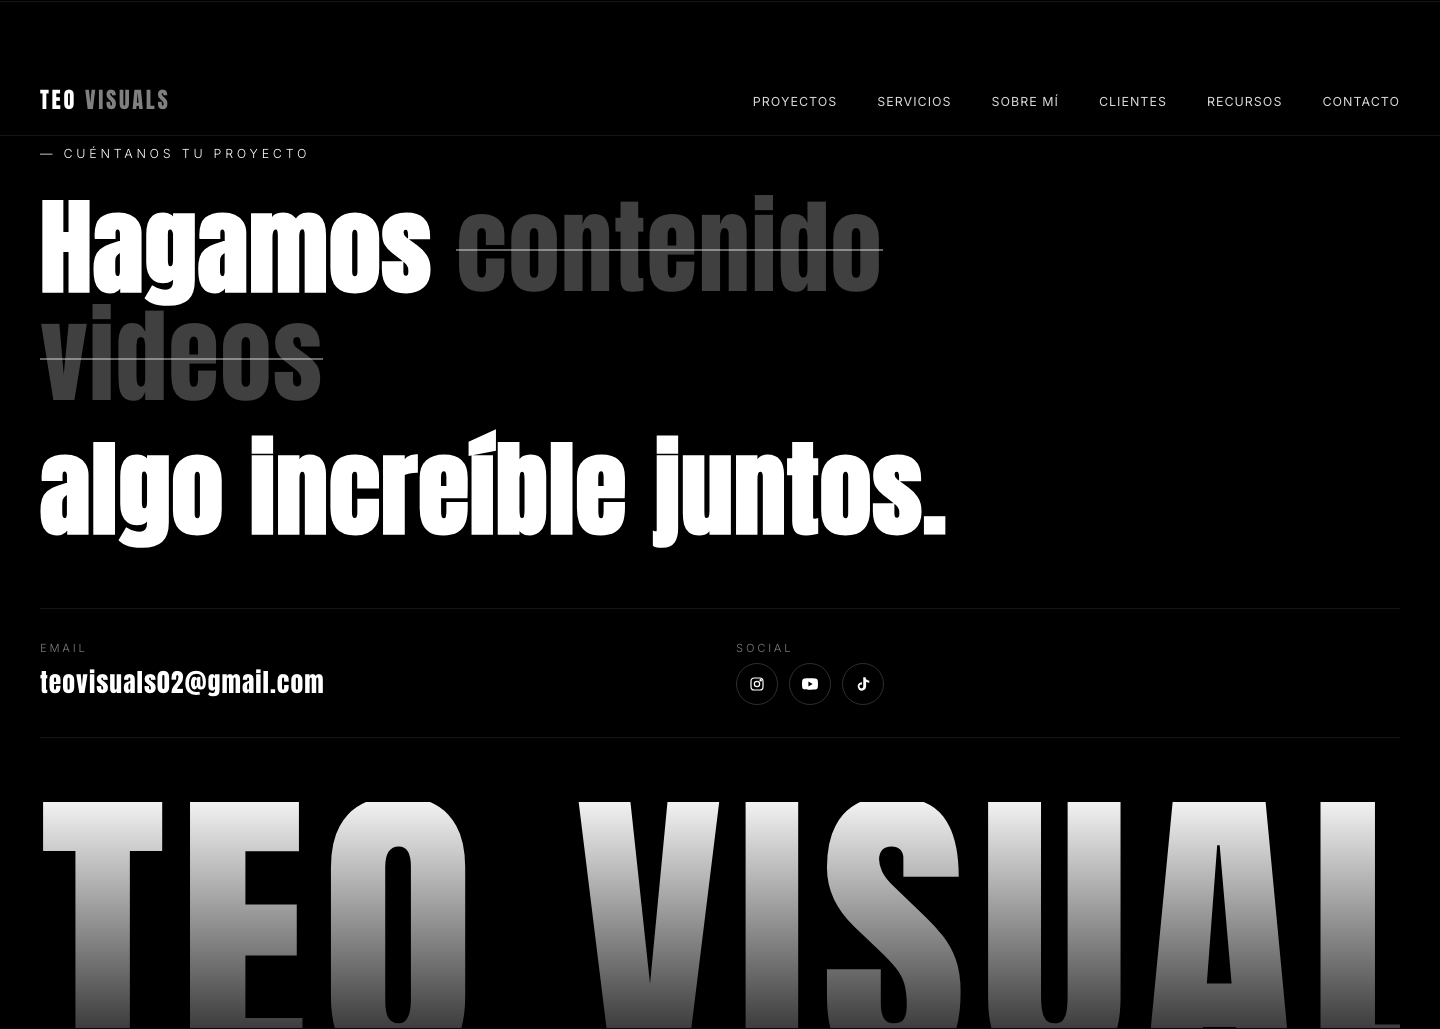
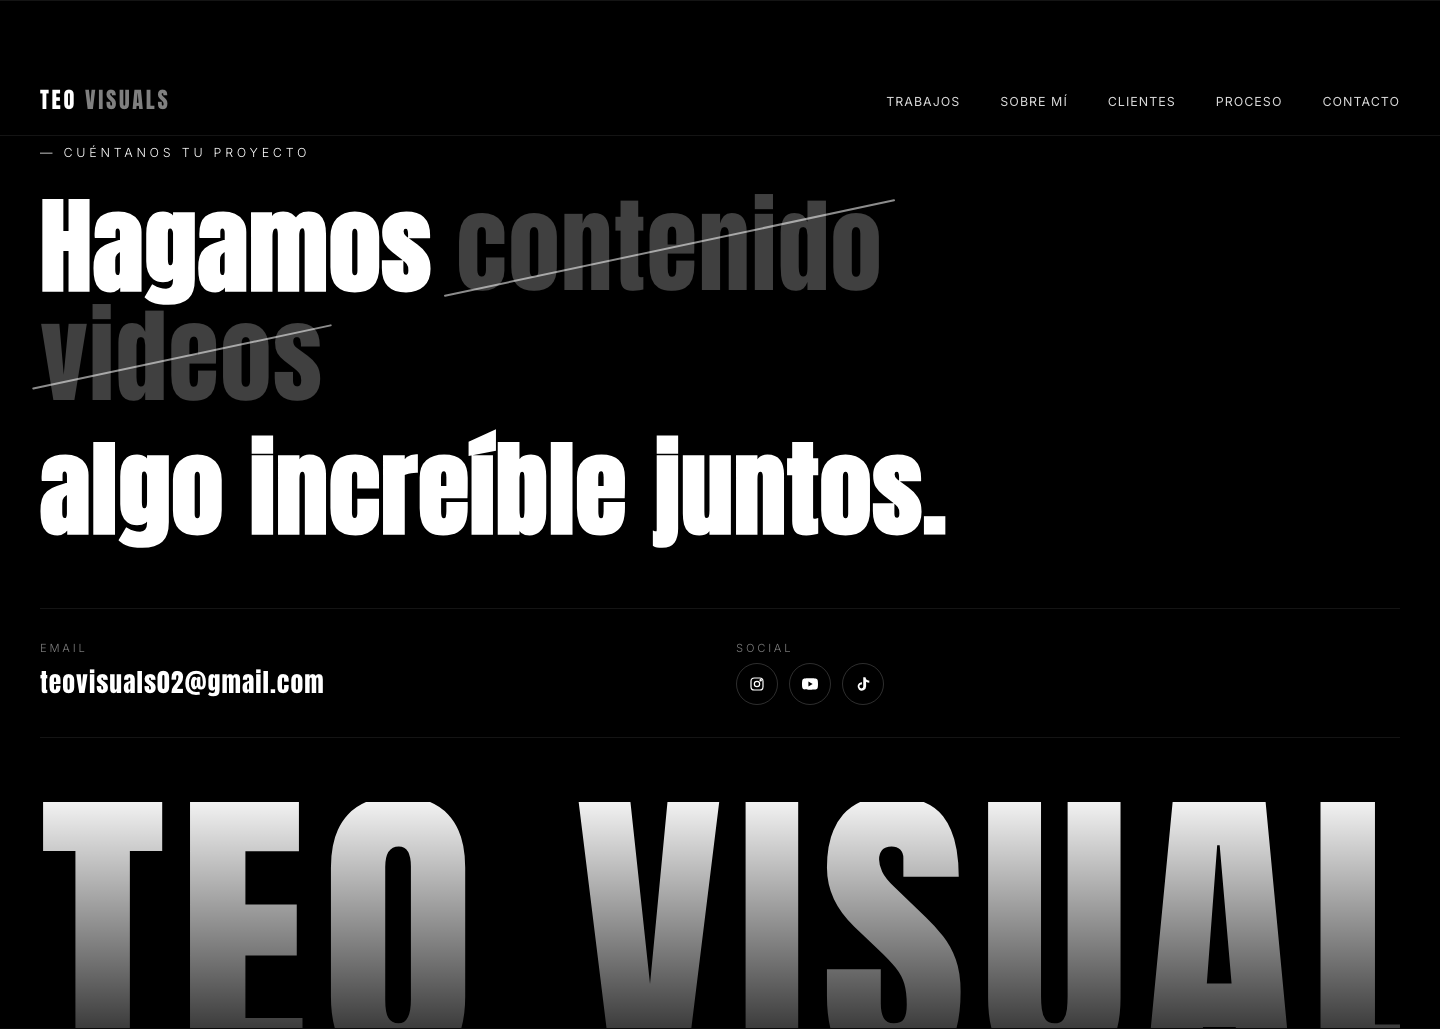
Apply self-feedback brief: trim sections, diagonal strikethrough
CONSERVAR (untouched): Hero, Sobre mí, +100 Clientes, Trabajos page

ELIMINAR (removed from index.html):
- Proyectos (embedded 6-up grid) — trabajos.html page kept instead
- Servicios (Gakuyen-style list + toolbox)
- Recursos & Presets (store teaser)

AJUSTAR:
- Contacto: strikethrough on "contenido"/"videos" is now a diagonal
  line (-12deg via ::after) instead of horizontal line-through
- Proceso: marked "ajustar" but no note provided — left as-is pending
  specifics

Nav rebuilt for remaining sections: Trabajos (→trabajos.html), Sobre mí,
Clientes, Proceso, Contacto. This preserves access to the kept trabajos
page now that the Proyectos section (which held the link) is gone.

Note: #sectores section was never captured by the feedback tool so it
wasn't evaluated — left untouched. Now added to feedback.html + capture
list so the next review round includes it.

capture-self.mjs + feedback.html synced to the new section set.

diff --git a/index.html b/index.html
@@ -787,10 +787,22 @@
     .cta-title .struck {
       position: relative;
       color: rgba(255,255,255,0.25);
-      text-decoration: line-through;
-      text-decoration-thickness: 2px;
-      text-decoration-color: rgba(255,255,255,0.4);
       font-weight: 400;
+      display: inline-block;
+    }
+    /* Tachado diagonal */
+    .cta-title .struck::after {
+      content: '';
+      position: absolute;
+      left: -4%;
+      right: -4%;
+      top: 50%;
+      height: 2px;
+      background: rgba(255,255,255,0.55);
+      transform: rotate(-12deg);
+      transform-origin: center;
+      border-radius: 2px;
+      pointer-events: none;
     }
     .cta-title .word { color: #fff; }
 
@@ -917,11 +929,10 @@
 <nav id="nav">
   <a href="#hero" class="logo">TEO <span>VISUALS</span></a>
   <ul class="nav-links" id="navLinks">
-    <li><a href="#proyectos">Proyectos</a></li>
-    <li><a href="#servicios">Servicios</a></li>
+    <li><a href="trabajos.html">Trabajos</a></li>
     <li><a href="#sobre">Sobre mí</a></li>
     <li><a href="#clientes">Clientes</a></li>
-    <li><a href="#recursos">Recursos</a></li>
+    <li><a href="#proceso">Proceso</a></li>
     <li><a href="#contacto">Contacto</a></li>
   </ul>
   <button class="nav-toggle" onclick="document.getElementById('navLinks').classList.toggle('open')">☰</button>
@@ -939,180 +950,6 @@
     </p>
   </div>
   <div class="hero-scroll">Scroll ↓</div>
-</section>
-
-<!-- PROYECTOS -->
-<section id="proyectos" class="section-pad">
-  <div class="container">
-    <div class="section-head reveal">
-      <span class="section-num">01 — Proyectos</span>
-      <h2 class="section-title">Trabajo seleccionado</h2>
-    </div>
-
-    <div class="projects-grid">
-      <div class="project reveal">
-        <div class="project-thumb"><span class="project-thumb-text">REEL</span></div>
-        <div class="project-overlay">
-          <div class="project-info">
-            <div class="project-cat">Automotriz · Mercedes-Benz</div>
-            <div class="project-name">ALEMAUTOS × PAJÓN</div>
-          </div>
-        </div>
-      </div>
-      <div class="project reveal">
-        <div class="project-thumb">FILM</div>
-        <span class="project-placeholder-tag">Próximamente</span>
-        <div class="project-overlay">
-          <div class="project-info">
-            <div class="project-cat">Marca · Film</div>
-            <div class="project-name">PROYECTO 02</div>
-          </div>
-        </div>
-      </div>
-      <div class="project reveal">
-        <div class="project-thumb">CORP</div>
-        <span class="project-placeholder-tag">Próximamente</span>
-        <div class="project-overlay">
-          <div class="project-info">
-            <div class="project-cat">Corporativo · Video</div>
-            <div class="project-name">PROYECTO 03</div>
-          </div>
-        </div>
-      </div>
-      <div class="project reveal">
-        <div class="project-thumb">YT</div>
-        <span class="project-placeholder-tag">Próximamente</span>
-        <div class="project-overlay">
-          <div class="project-info">
-            <div class="project-cat">YouTube · Review</div>
-            <div class="project-name">PROYECTO 04</div>
-          </div>
-        </div>
-      </div>
-      <div class="project reveal">
-        <div class="project-thumb">REEL</div>
-        <span class="project-placeholder-tag">Próximamente</span>
-        <div class="project-overlay">
-          <div class="project-info">
-            <div class="project-cat">Producto · Reel</div>
-            <div class="project-name">PROYECTO 05</div>
-          </div>
-        </div>
-      </div>
-      <div class="project reveal">
-        <div class="project-thumb">SHOT</div>
-        <span class="project-placeholder-tag">Próximamente</span>
-        <div class="project-overlay">
-          <div class="project-info">
-            <div class="project-cat">Inmobiliario · Walkthrough</div>
-            <div class="project-name">PROYECTO 06</div>
-          </div>
-        </div>
-      </div>
-    </div>
-
-    <div class="view-more-row reveal">
-      <a href="trabajos.html" class="view-more">Ver todos los trabajos →</a>
-    </div>
-  </div>
-</section>
-
-<!-- SERVICIOS -->
-<section id="servicios" class="section-pad">
-  <div class="container">
-    <div class="section-head reveal">
-      <span class="section-num">02 — Servicios</span>
-    </div>
-
-    <div class="services-layout">
-
-      <!-- LEFT: title + toolbox -->
-      <div class="reveal">
-        <h2 class="services-title">
-          <span class="dim">Servicios que</span>
-          <span class="strong">elevan tu marca.</span>
-        </h2>
-
-        <div class="toolbox-block">
-          <div class="toolbox-label">Stack creativo</div>
-          <div class="toolbox-row">
-            <div class="tool-chip" title="Premiere Pro">Pr</div>
-            <div class="tool-chip" title="After Effects">Ae</div>
-            <div class="tool-chip" title="Photoshop">Ps</div>
-            <div class="tool-chip" title="DaVinci Resolve">Dv</div>
-            <div class="tool-chip" title="Lightroom">Lr</div>
-            <div class="tool-chip" title="Audition">Au</div>
-            <div class="tool-chip" title="Frame.io">F</div>
-          </div>
-        </div>
-      </div>
-
-      <!-- RIGHT: services list -->
-      <div class="services-list reveal">
-
-        <div class="service-row">
-          <div class="service-icon">
-            <svg viewBox="0 0 24 24" fill="none" stroke="currentColor" stroke-width="1.8"><path d="M3 7a2 2 0 0 1 2-2h11a2 2 0 0 1 2 2v10a2 2 0 0 1-2 2H5a2 2 0 0 1-2-2zM18 10l3-2v8l-3-2z" stroke-linejoin="round"/></svg>
-          </div>
-          <div class="service-body">
-            <div class="service-name">Planes mensuales</div>
-            <div class="service-desc">Contenido recurrente con estrategia. El núcleo del servicio.</div>
-          </div>
-        </div>
-
-        <div class="service-row">
-          <div class="service-icon">
-            <svg viewBox="0 0 24 24" fill="none" stroke="currentColor" stroke-width="1.8"><rect x="6" y="3" width="12" height="18" rx="2"/><line x1="10" y1="18" x2="14" y2="18"/></svg>
-          </div>
-          <div class="service-body">
-            <div class="service-name">Reels & contenido corto</div>
-            <div class="service-desc">Vertical 15–60s. Criterio cinematográfico para redes.</div>
-          </div>
-        </div>
-
-        <div class="service-row">
-          <div class="service-icon">
-            <svg viewBox="0 0 24 24" fill="none" stroke="currentColor" stroke-width="1.8"><path d="M3 12l5-9 5 9-5 9z" stroke-linejoin="round"/><path d="M13 12l5-7 3 7-3 7z" stroke-linejoin="round"/></svg>
-          </div>
-          <div class="service-body">
-            <div class="service-name">Videos corporativos</div>
-            <div class="service-desc">Institucionales, de proceso, casos B2B, marca empleadora.</div>
-          </div>
-        </div>
-
-        <div class="service-row">
-          <div class="service-icon">
-            <svg viewBox="0 0 24 24" fill="currentColor"><path d="M21.5 6.2a3 3 0 0 0-2.1-2.1C17.5 3.5 12 3.5 12 3.5s-5.5 0-7.4.6A3 3 0 0 0 2.5 6.2C2 8.1 2 12 2 12s0 3.9.5 5.8a3 3 0 0 0 2.1 2.1c1.9.6 7.4.6 7.4.6s5.5 0 7.4-.6a3 3 0 0 0 2.1-2.1c.5-1.9.5-5.8.5-5.8s0-3.9-.5-5.8zM10 15.6V8.4l5.5 3.6L10 15.6z"/></svg>
-          </div>
-          <div class="service-body">
-            <div class="service-name">YouTube · Long-form</div>
-            <div class="service-desc">Reviews, recorridos, casos de éxito y contenido educativo.</div>
-          </div>
-        </div>
-
-        <div class="service-row">
-          <div class="service-icon">
-            <svg viewBox="0 0 24 24" fill="none" stroke="currentColor" stroke-width="1.8"><circle cx="12" cy="13" r="4"/><path d="M3 7h4l2-3h6l2 3h4v13H3z" stroke-linejoin="round"/></svg>
-          </div>
-          <div class="service-body">
-            <div class="service-name">Fotografía complementaria</div>
-            <div class="service-desc">Producto, lifestyle y marca. Como complemento de producción.</div>
-          </div>
-        </div>
-
-        <div class="service-row">
-          <div class="service-icon">
-            <svg viewBox="0 0 24 24" fill="none" stroke="currentColor" stroke-width="1.8"><path d="M4 5h16v14H4z"/><path d="M4 9h16M9 5v14"/></svg>
-          </div>
-          <div class="service-body">
-            <div class="service-name">Dirección creativa</div>
-            <div class="service-desc">Concepto, guión y supervisión de campañas y proyectos.</div>
-          </div>
-        </div>
-
-      </div>
-    </div>
-  </div>
 </section>
 
 <!-- SECTORES -->
@@ -1250,56 +1087,6 @@
         <div class="step-name">OPTIMIZACIÓN</div>
         <div class="step-desc">Análisis mensual de resultados y mejora continua mes a mes.</div>
       </div>
-    </div>
-  </div>
-</section>
-
-<!-- RECURSOS / PRESETS -->
-<section id="recursos">
-  <div class="container">
-    <div class="recursos-head reveal">
-      <h2 class="recursos-title">
-        <span class="dim">Recursos &</span>
-        <span>presets para creadores.</span>
-      </h2>
-      <a href="#" class="view-all">Ver tienda ↗</a>
-    </div>
-
-    <div class="recursos-grid">
-
-      <a href="#" class="recurso-card reveal">
-        <div class="recurso-thumb">
-          <span class="recurso-badge">Color · LUT</span>
-          <div class="recurso-art">LUT</div>
-        </div>
-        <div class="recurso-body">
-          <div class="recurso-name">Cinematic LUT Pack</div>
-          <div class="recurso-desc">10 LUTs cinematográficos listos para Premiere y DaVinci. Look usado en producciones reales.</div>
-        </div>
-      </a>
-
-      <a href="#" class="recurso-card reveal">
-        <div class="recurso-thumb">
-          <span class="recurso-badge">Preset · Lightroom</span>
-          <div class="recurso-art">PSE</div>
-        </div>
-        <div class="recurso-body">
-          <div class="recurso-name">Auto Editorial Presets</div>
-          <div class="recurso-desc">12 presets para fotografía automotriz. Look limpio, contraste controlado, tonos cinemáticos.</div>
-        </div>
-      </a>
-
-      <a href="#" class="recurso-card reveal">
-        <div class="recurso-thumb">
-          <span class="recurso-badge">Template · After Effects</span>
-          <div class="recurso-art">FX</div>
-        </div>
-        <div class="recurso-body">
-          <div class="recurso-name">Reel Title Templates</div>
-          <div class="recurso-desc">Plantillas tipográficas para reels e intros. Editables, sin marca de agua, render rápido.</div>
-        </div>
-      </a>
-
     </div>
   </div>
 </section>

diff --git a/feedback.html b/feedback.html
@@ -335,13 +335,11 @@
 <script>
 const SECTIONS = [
   { id: 'hero',     name: 'Hero',                img: 'feedback-shots/hero.png',     desc: 'Portada cinematográfica: "TEO VISUALS" sobre fondo oscuro, tagline y nav.' },
-  { id: 'proyectos',name: 'Proyectos',           img: 'feedback-shots/proyectos.png',desc: 'Grid de 6 proyectos con la pieza Alemautos × Mercedes real.' },
-  { id: 'servicios',name: 'Servicios',           img: 'feedback-shots/servicios.png',desc: 'Lista de servicios con íconos + stack creativo (estilo Gakuyen).' },
+  { id: 'sectores', name: 'Sectores',            img: 'feedback-shots/sectores.png', desc: 'Dónde tenemos foco: Automotriz, Inmobiliario, Corporativo, Producto, Premium.' },
   { id: 'sobre',    name: 'Sobre mí',            img: 'feedback-shots/sobre.png',    desc: 'Foto con gimbal en Cerro Vento + bio + manifiesto.' },
   { id: 'clientes', name: '+100 Clientes',       img: 'feedback-shots/clientes.png', desc: 'Marquee infinito con los 7 logos reales.' },
-  { id: 'recursos', name: 'Recursos & Presets',  img: 'feedback-shots/recursos.png', desc: '3 cards para dirigir a tu tienda de presets/LUTs.' },
   { id: 'proceso',  name: 'Proceso',             img: 'feedback-shots/proceso.png',  desc: 'Los 5 pasos: Diagnóstico → Optimización.' },
-  { id: 'contacto', name: 'Contacto + Footer',   img: 'feedback-shots/contacto.png', desc: 'CTA con tipografía gigante tachada + brand mark "TEO VISUALS".' },
+  { id: 'contacto', name: 'Contacto + Footer',   img: 'feedback-shots/contacto.png', desc: 'CTA con tipografía gigante tachada en diagonal + brand mark "TEO VISUALS".' },
   { id: 'trabajos', name: 'Página de Trabajos',  img: 'feedback-shots/trabajos.png', desc: 'Grid masonry irregular (vertical + horizontal) en trabajos.html.' },
 ];
 
